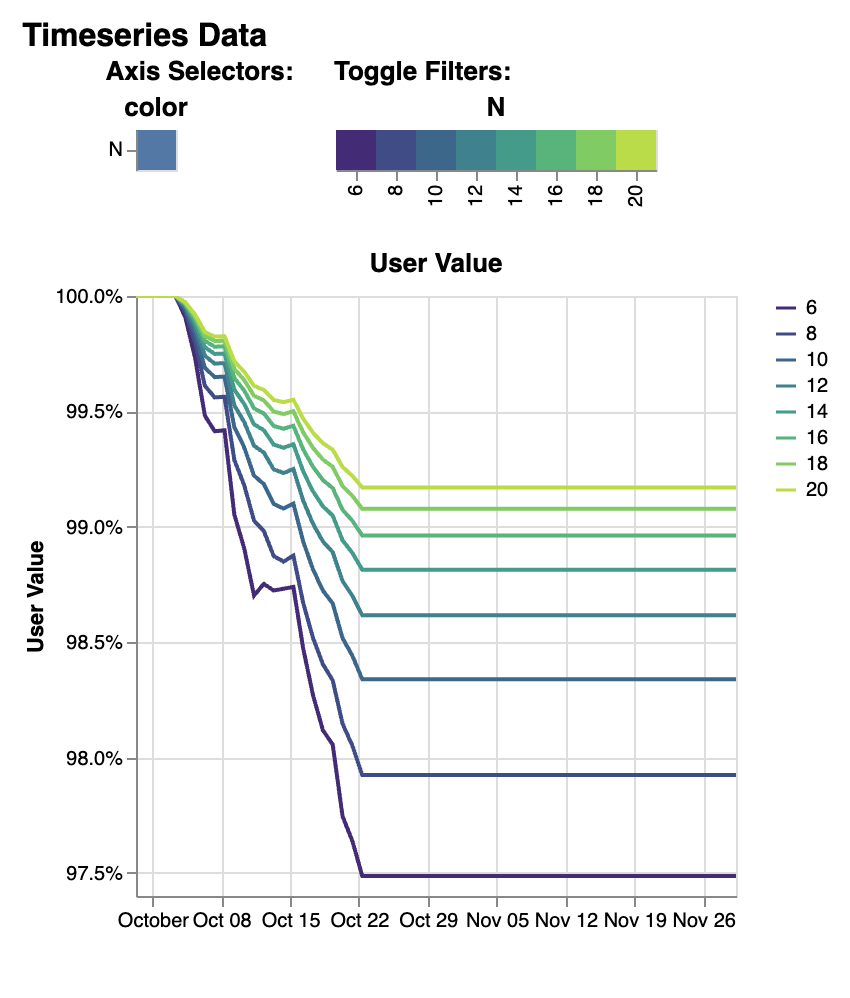
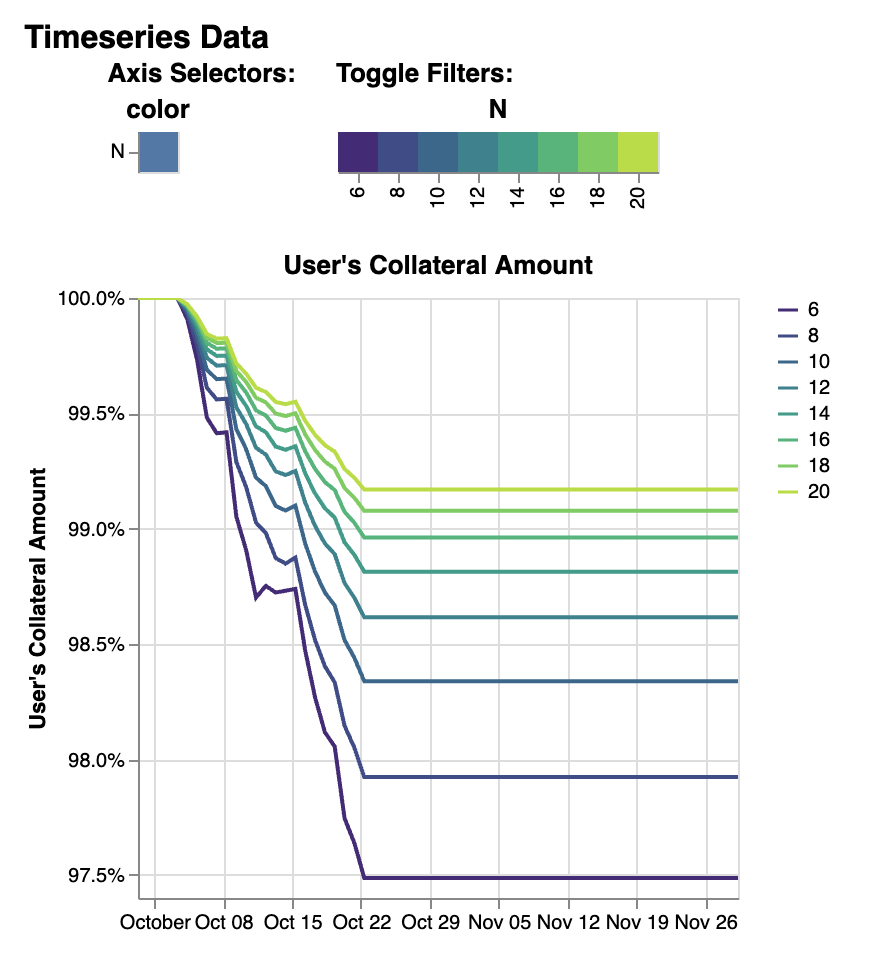
modify: docs pic

Changed region(s): [[0.0306, 0.249, 0.9788, 0.9647], [0.3671, 0.0622, 0.7953, 0.2178], [0.0306, 0.0, 0.3365, 0.1867]]

diff --git a/crvusdsim/metrics/metrics_N.py b/crvusdsim/metrics/metrics_N.py
@@ -31,7 +31,7 @@ class RangeNReturns(MarketMetric):
             "plot": {
                 "metrics": {
                     "user_value": {
-                        "title": f"User Value",
+                        "title": f"User's Collateral Amount",
                         "style": "time_series",
                         "resample": "last",
                         "encoding": {"y": {"axis": Axis(format="%")}},

diff --git a/crvusdsim/metrics/state_log/controller_state.py b/crvusdsim/metrics/state_log/controller_state.py
@@ -71,6 +71,7 @@ def get_controller_state(pool, controller):
         "users_y": users_y,
         "users_health": users_health,
         "users_init_y": users_init_y,
+        "users_value": sum(pool.bands_y.values()) / 1e18 * last_out_price + sum(pool.bands_x.values()) / 1e18,
 
         # liquidation
         "liquidation_count": liquidation_count,
